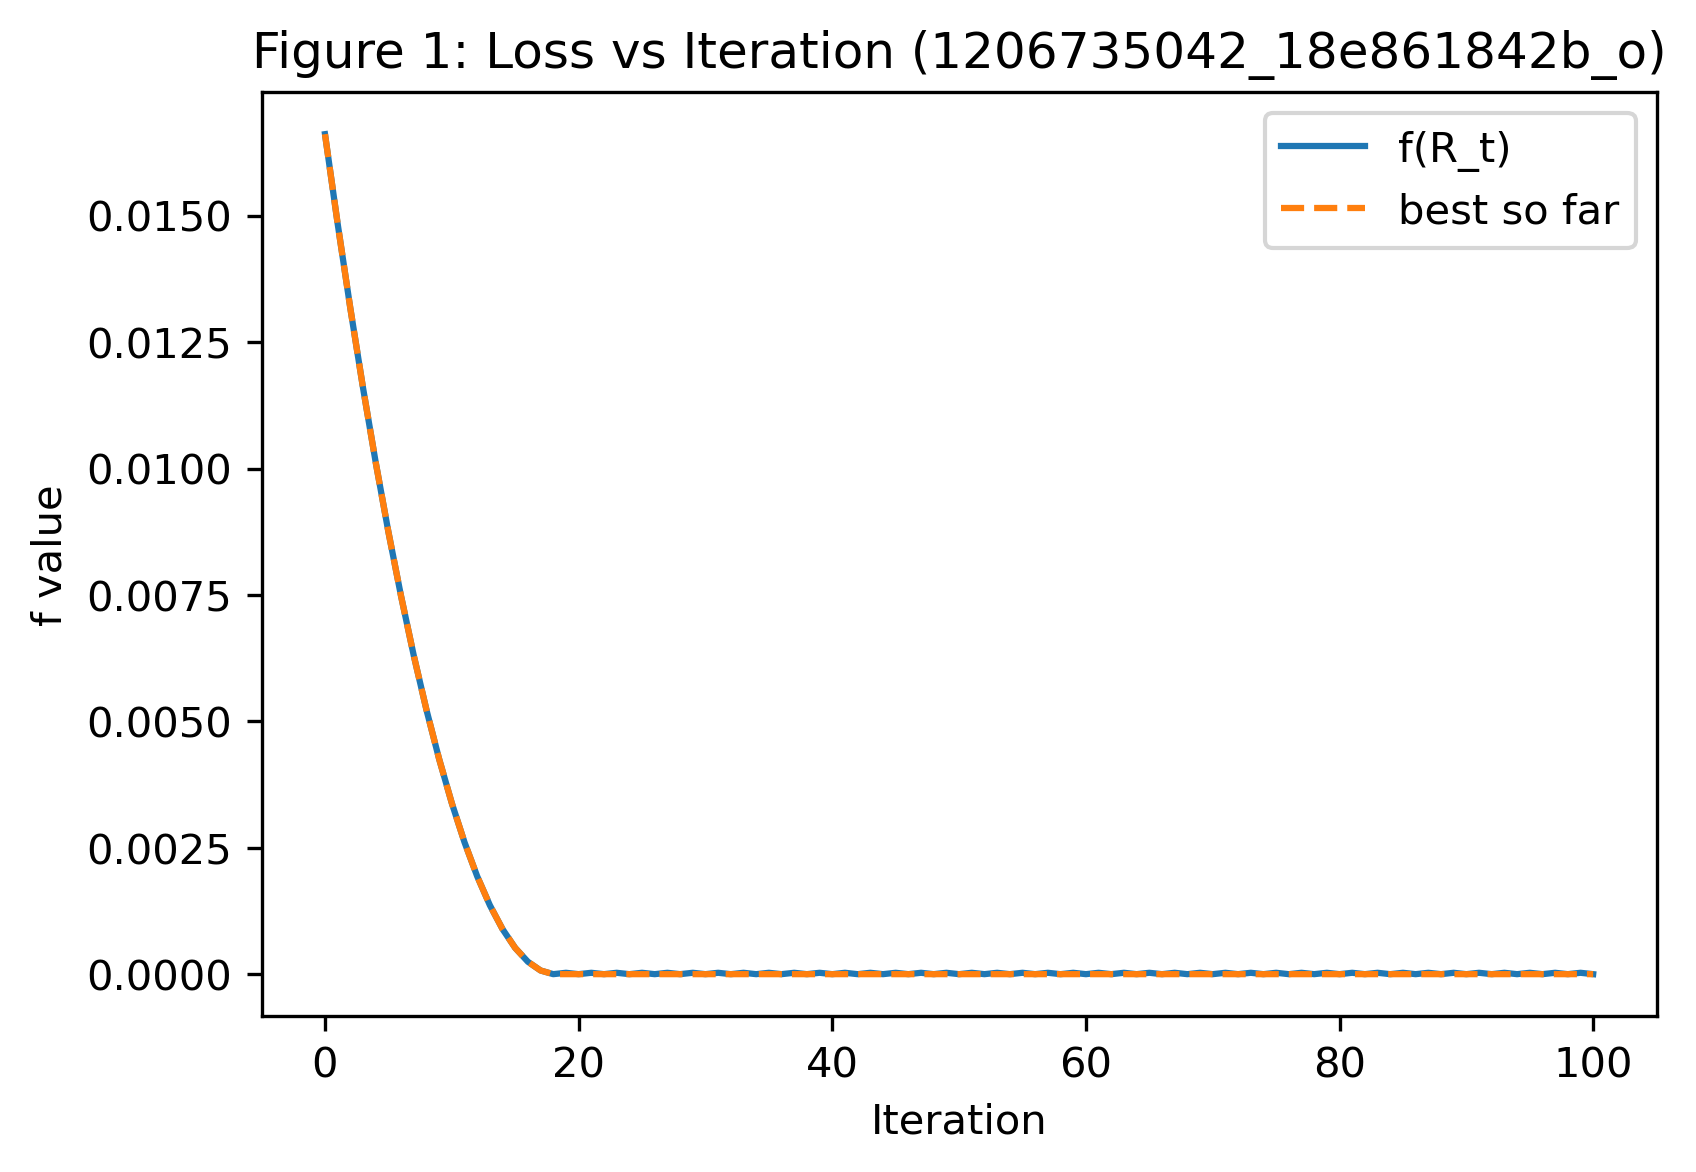
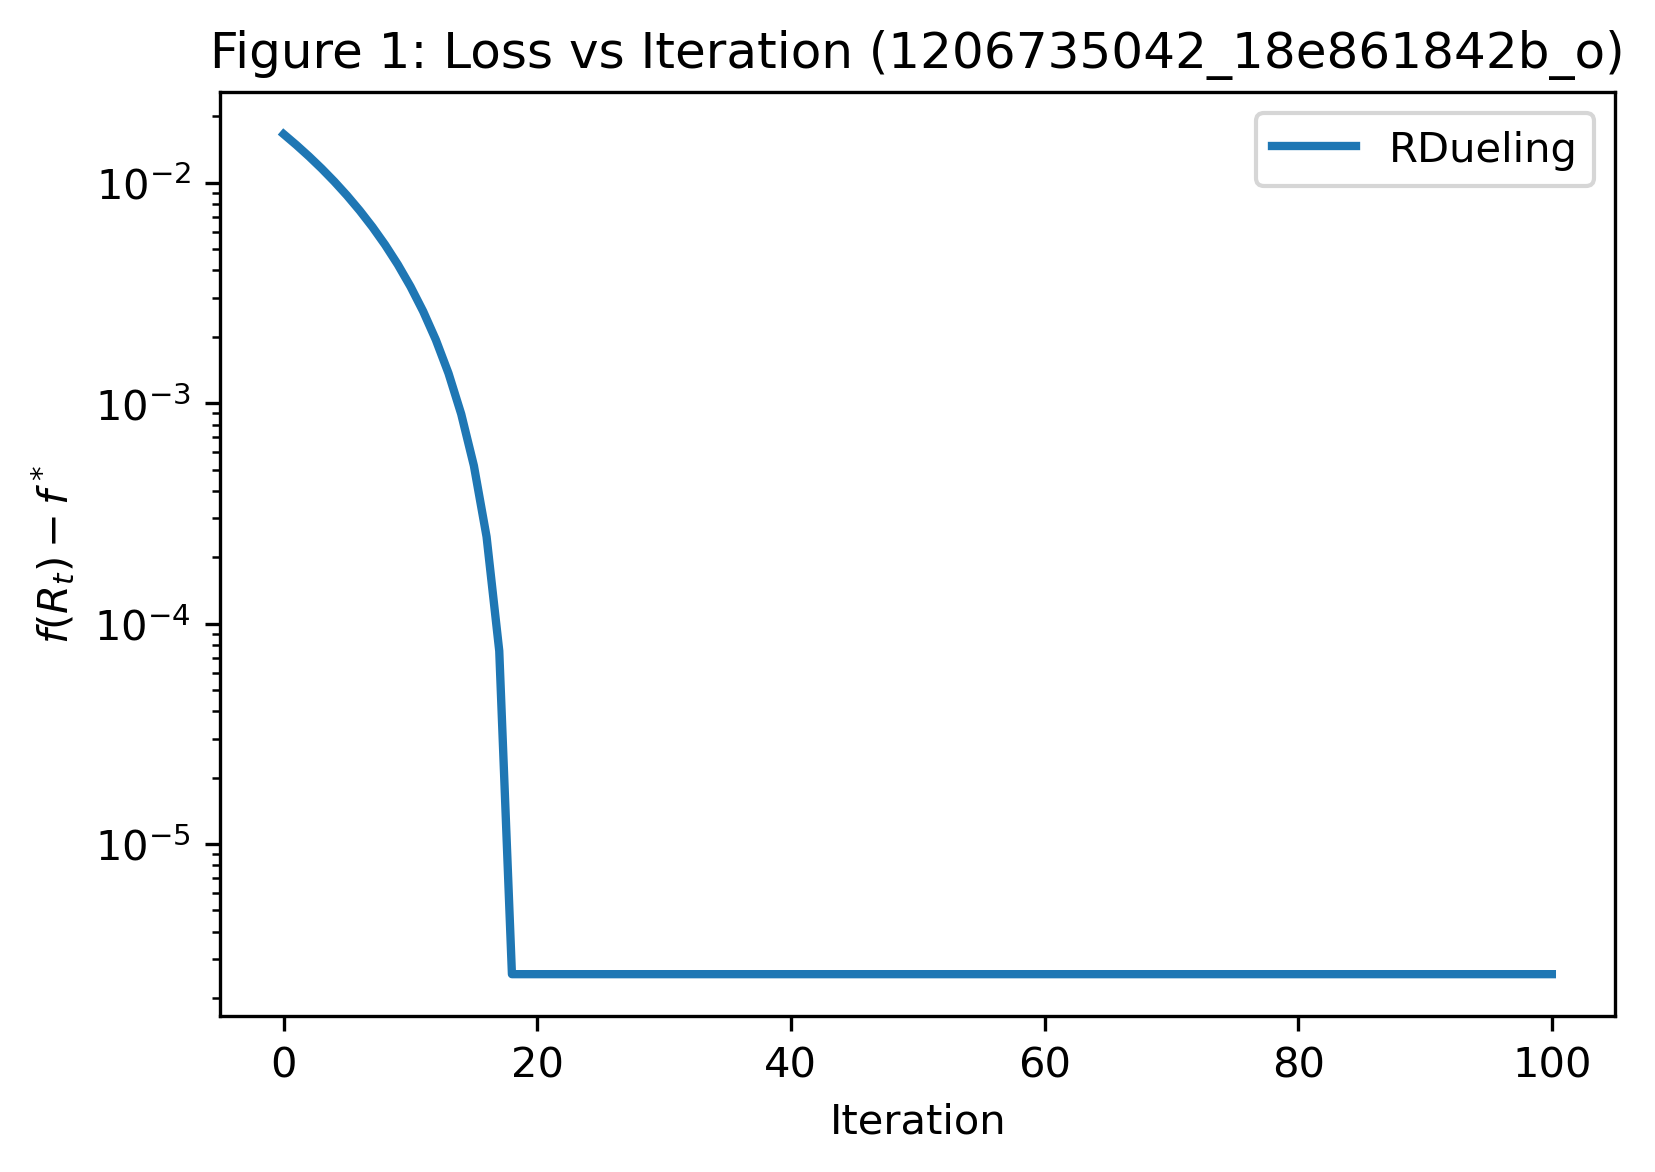
change yaxis to log

diff --git a/horizon/main.py b/horizon/main.py
@@ -19,18 +19,6 @@ def load_horizon_points(csv_path, prefix="0006/"):
     return horizon_dict
 
 
-def rotate_image(img, theta_deg):
-    """Rotate image by theta degrees (positive = CCW)."""
-    h, w = img.shape[:2]
-    M = cv2.getRotationMatrix2D((w / 2.0, h / 2.0), theta_deg, 1.0)
-    rotated = cv2.warpAffine(
-        img, M, (w, h),
-        flags=cv2.INTER_LINEAR,
-        borderMode=cv2.BORDER_REFLECT_101,
-    )
-    return rotated
-
-
 def main():
     parser = argparse.ArgumentParser(
         description="Run Dueling Optimization on SO(2) for horizon correction."
@@ -45,9 +33,9 @@ def main():
                         default=True,
                         help="Whether to display plots (True/False, default: True)")
     args = parser.parse_args()
-
     min_deg = args.min_deg
     max_deg = args.max_deg
+
 
     # Dataset parameters
     DATA_ROOT = "hlw"
@@ -72,9 +60,9 @@ def main():
 
     # Select subset
     selected_list = [(fname, deg, theta) for fname, deg, theta in angles_list if min_deg <= deg <= max_deg]
-    print(f"Number of images in [{min_deg}°, {max_deg}°]: {len(selected_list)}")
-    for item in selected_list:
-        print(item)
+    # print(f"Number of images in [{min_deg}°, {max_deg}°]: {len(selected_list)}")
+    # for item in selected_list:
+    #     print(item)
 
     filename = selected_list[0][0]  # pick first image
     base_name = os.path.splitext(filename)[0]  # e.g. 2680766258_66b5a9fcbf_o
@@ -92,22 +80,24 @@ def main():
     best_theta_deg = np.degrees(so2_to_angle(log["R_best"]))
 
     print("\n=======================================")
+    print(f"[Result] True horizon angle (deg): {np.degrees(oracle.optimal_degree):.2f}")
     print(f"[Result] Final angle (deg): {final_theta_deg:.2f}")
     print(f"[Result] Best-so-far angle (deg): {best_theta_deg:.2f}")
     print(f"[Result] f_best: {log['f_best']:.6f}")
     print("=======================================")
 
-    # Prepare result directory
+    # Plot and save result
     RESULT_DIR = os.path.join(os.getcwd(), "result")
     if args.save:
         os.makedirs(RESULT_DIR, exist_ok=True)
 
-    # === Figure 1: Loss curve ===
+    # Plot Loss curve
     fig1 = plt.figure(figsize=(6, 4))
-    plt.plot(log["f_seq"], label="f(R_t)")
-    plt.plot(log["f_best_seq"], label="best so far", linestyle="--")
+    # plt.plot(log["f_seq"], label="f(R_t)")
+    plt.plot(log["f_best_seq"], label="RDueling", linestyle="-",linewidth=2)
     plt.xlabel("Iteration")
-    plt.ylabel("f value")
+    plt.ylabel(r"$f(R_t) - f^*$")
+    plt.yscale("log") 
     plt.legend()
     plt.title(f"Figure 1: Loss vs Iteration ({base_name})")
 
@@ -116,7 +106,7 @@ def main():
         fig1.savefig(fig1_path, dpi=300, bbox_inches="tight")
         print(f"[Saved] Figure 1 → {fig1_path}")
 
-    # === Figure 2: Original vs Rotated ===
+    # Plot Original vs Rotated
     img_path = os.path.join(DATA_ROOT, "images", FOLDER_PREFIX, filename)
     img = cv2.imread(img_path)
     if img is None:
@@ -141,8 +131,6 @@ def main():
         fig2_path = os.path.join(RESULT_DIR, f"{base_name}_before_and_after.png")
         fig2.savefig(fig2_path, dpi=300, bbox_inches="tight")
         print(f"[Saved] Figure 2 → {fig2_path}")
-
-    # === Show both figures together ===
     if args.show:
         plt.show()
     else:

diff --git a/horizon/RDueling.py b/horizon/RDueling.py
@@ -4,11 +4,11 @@ import so2_objective
 
 
 class RDueling:
-    def __init__(self, oracle, lr=0.1, delta=0.05, T=100):
+    def __init__(self, oracle, lr=1e-2, delta=0.05, T=100):
         """
         oracle: an object with .f(R), .exp(R, omega), .sample_unit_tangent(R)
-        lr: learning rate for updates
-        delta: exploration step size
+        lr: stepsize
+        delta: pertubation scale
         T: number of iterations
         """
         self.oracle = oracle
@@ -17,7 +17,9 @@ class RDueling:
         self.T = T
 
     def run(self, R0):
-        """Run dueling optimization starting from R0."""
+        """
+        Run Riemannian dueling optimization with initial point R0.
+        """
         R_current = R0
         theta_seq = []      # store angle trajectory
         f_seq = []          # store raw function values
@@ -50,14 +52,13 @@ class RDueling:
             f_seq.append(f_val)
 
             # Track best-so-far (dueling version)
-
             if self.oracle.f(R_best) > self.oracle.f(R_current):
                 R_best = R_current
                 f_best = f_val
 
             f_best_seq.append(f_best)
 
-        # Return everything needed
+        # Return output
         return {
             "R_final": R_current,
             "R_best": R_best,

diff --git a/horizon/utils.py b/horizon/utils.py
@@ -1,5 +1,6 @@
-import math
+import math, cv2
 import numpy as np
+
 
 def horizon_angle(coords):
     x1, y1, x2, y2 = coords
@@ -7,32 +8,30 @@ def horizon_angle(coords):
     angle = math.atan2(dy, dx)
     return angle
 
+
 def angle_to_degrees(angle):
     return math.degrees(angle)
 
 
 def angle_to_so2(theta):
-    """Return the SO(2) rotation matrix for an angle in (-pi, pi]."""
     c, s = np.cos(theta), np.sin(theta)
     R = np.array([[c, -s],
                   [s,  c]])
     return R
 
+
 def so2_to_angle(R, degrees=False):
-    """Recover the angle θ from a 2 by 2 SO(2) rotation matrix."""
     theta = np.arctan2(R[1, 0], R[0, 0])  # in (-π, π]
     return np.degrees(theta) if degrees else theta
 
 
 def so2_exp(omega):
-    """Exponential map from tangent scalar ω → SO(2)."""
     c, s = np.cos(omega), np.sin(omega)
     return np.array([[c, -s],
                      [s,  c]])
 
 
 def rotate_image(img, theta_deg):
-    """Rotate image by theta degrees (positive = CCW)."""
     h, w = img.shape[:2]
     M = cv2.getRotationMatrix2D((w/2.0, h/2.0), theta_deg, 1.0)
     rotated = cv2.warpAffine(img, M, (w, h), flags=cv2.INTER_LINEAR,

diff --git a/horizon/so2_objective.py b/horizon/so2_objective.py
@@ -6,6 +6,7 @@ class SO2Objective:
         Initialize with a fixed true horizon angle.
         Ground-truth optimal rotation is R* = R(-theta_true).
         """
+        self.optimal_degree = -theta_true
         self.R_star = angle_to_so2(-theta_true)
 
     @classmethod
